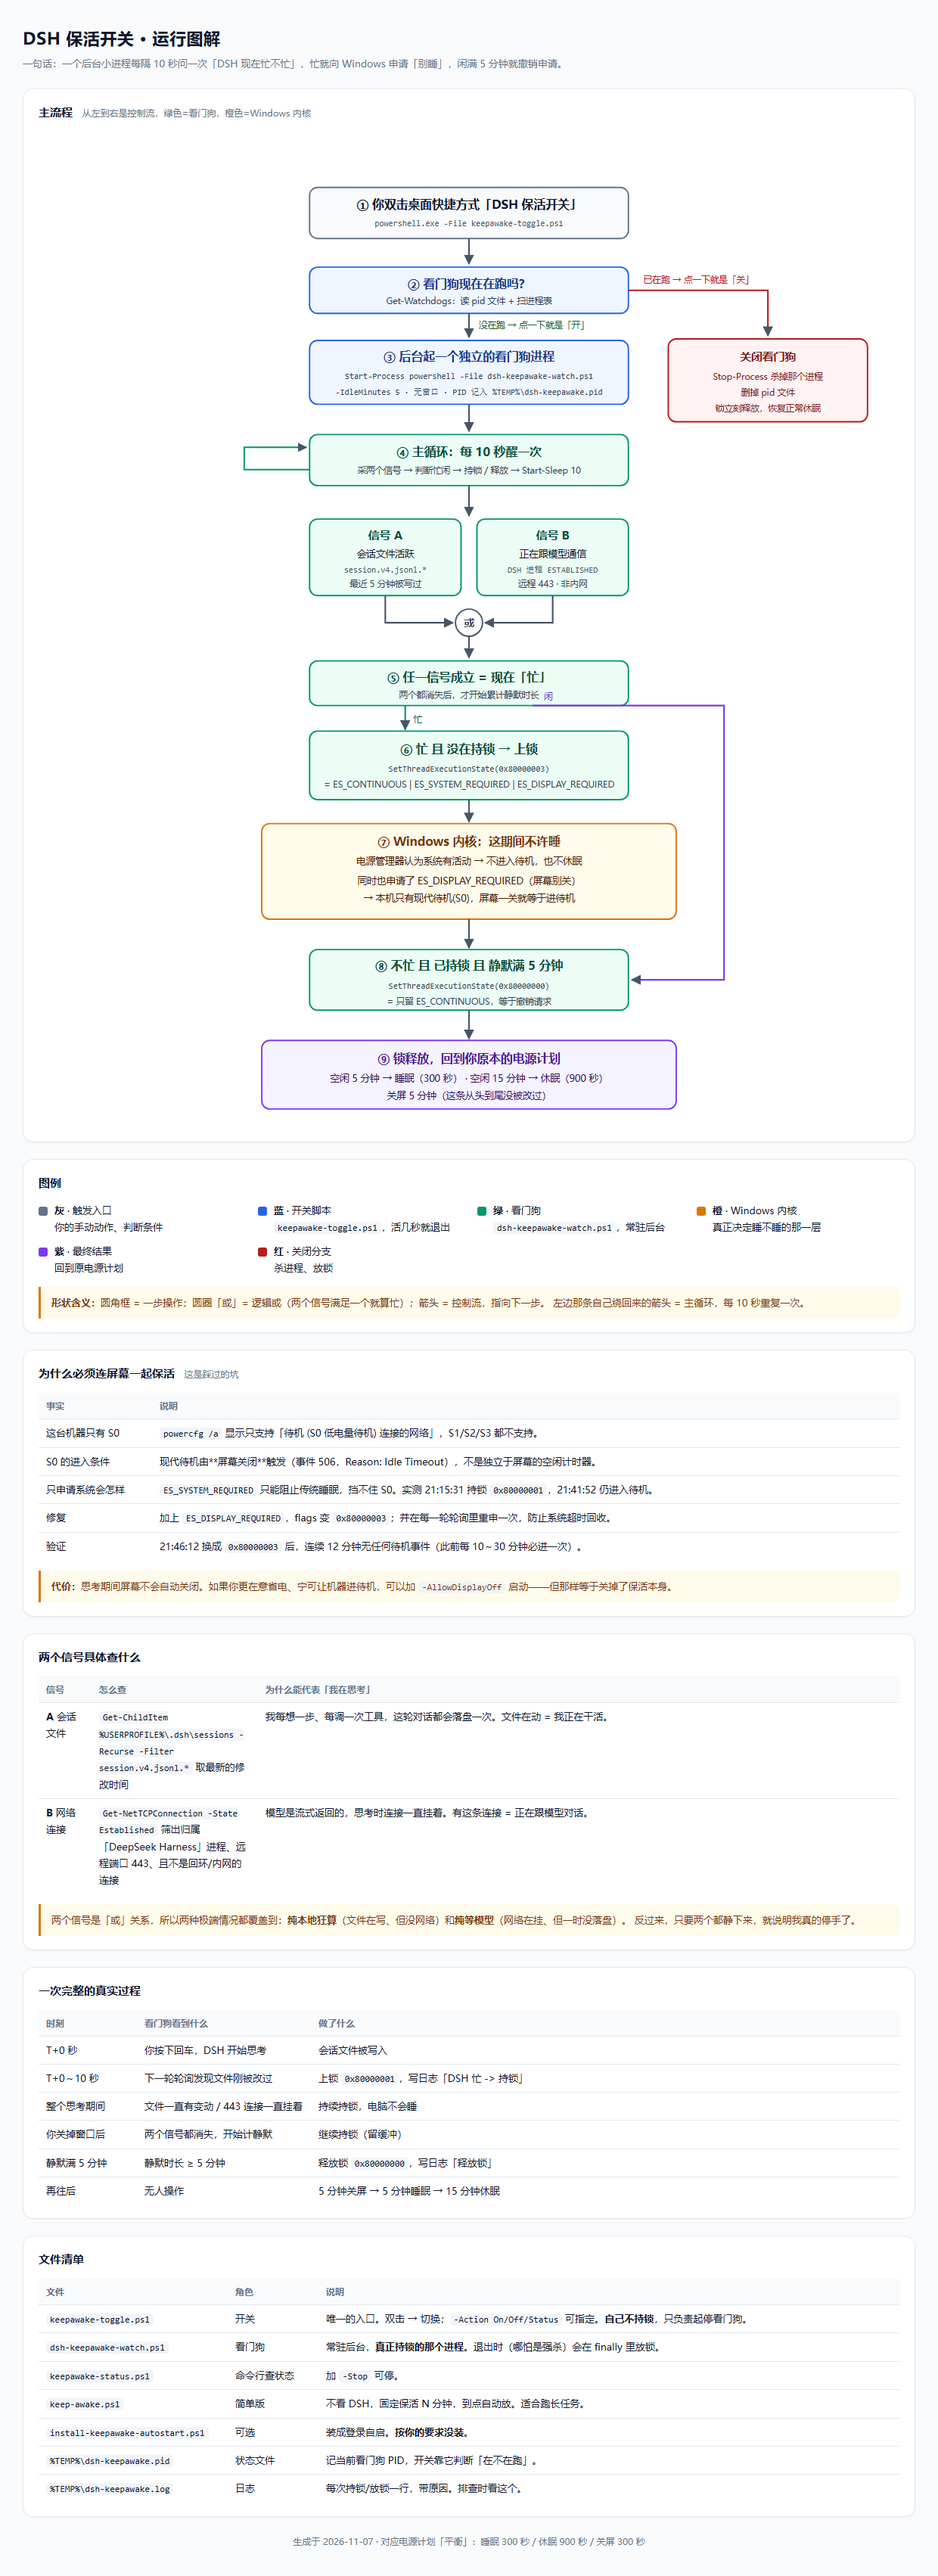
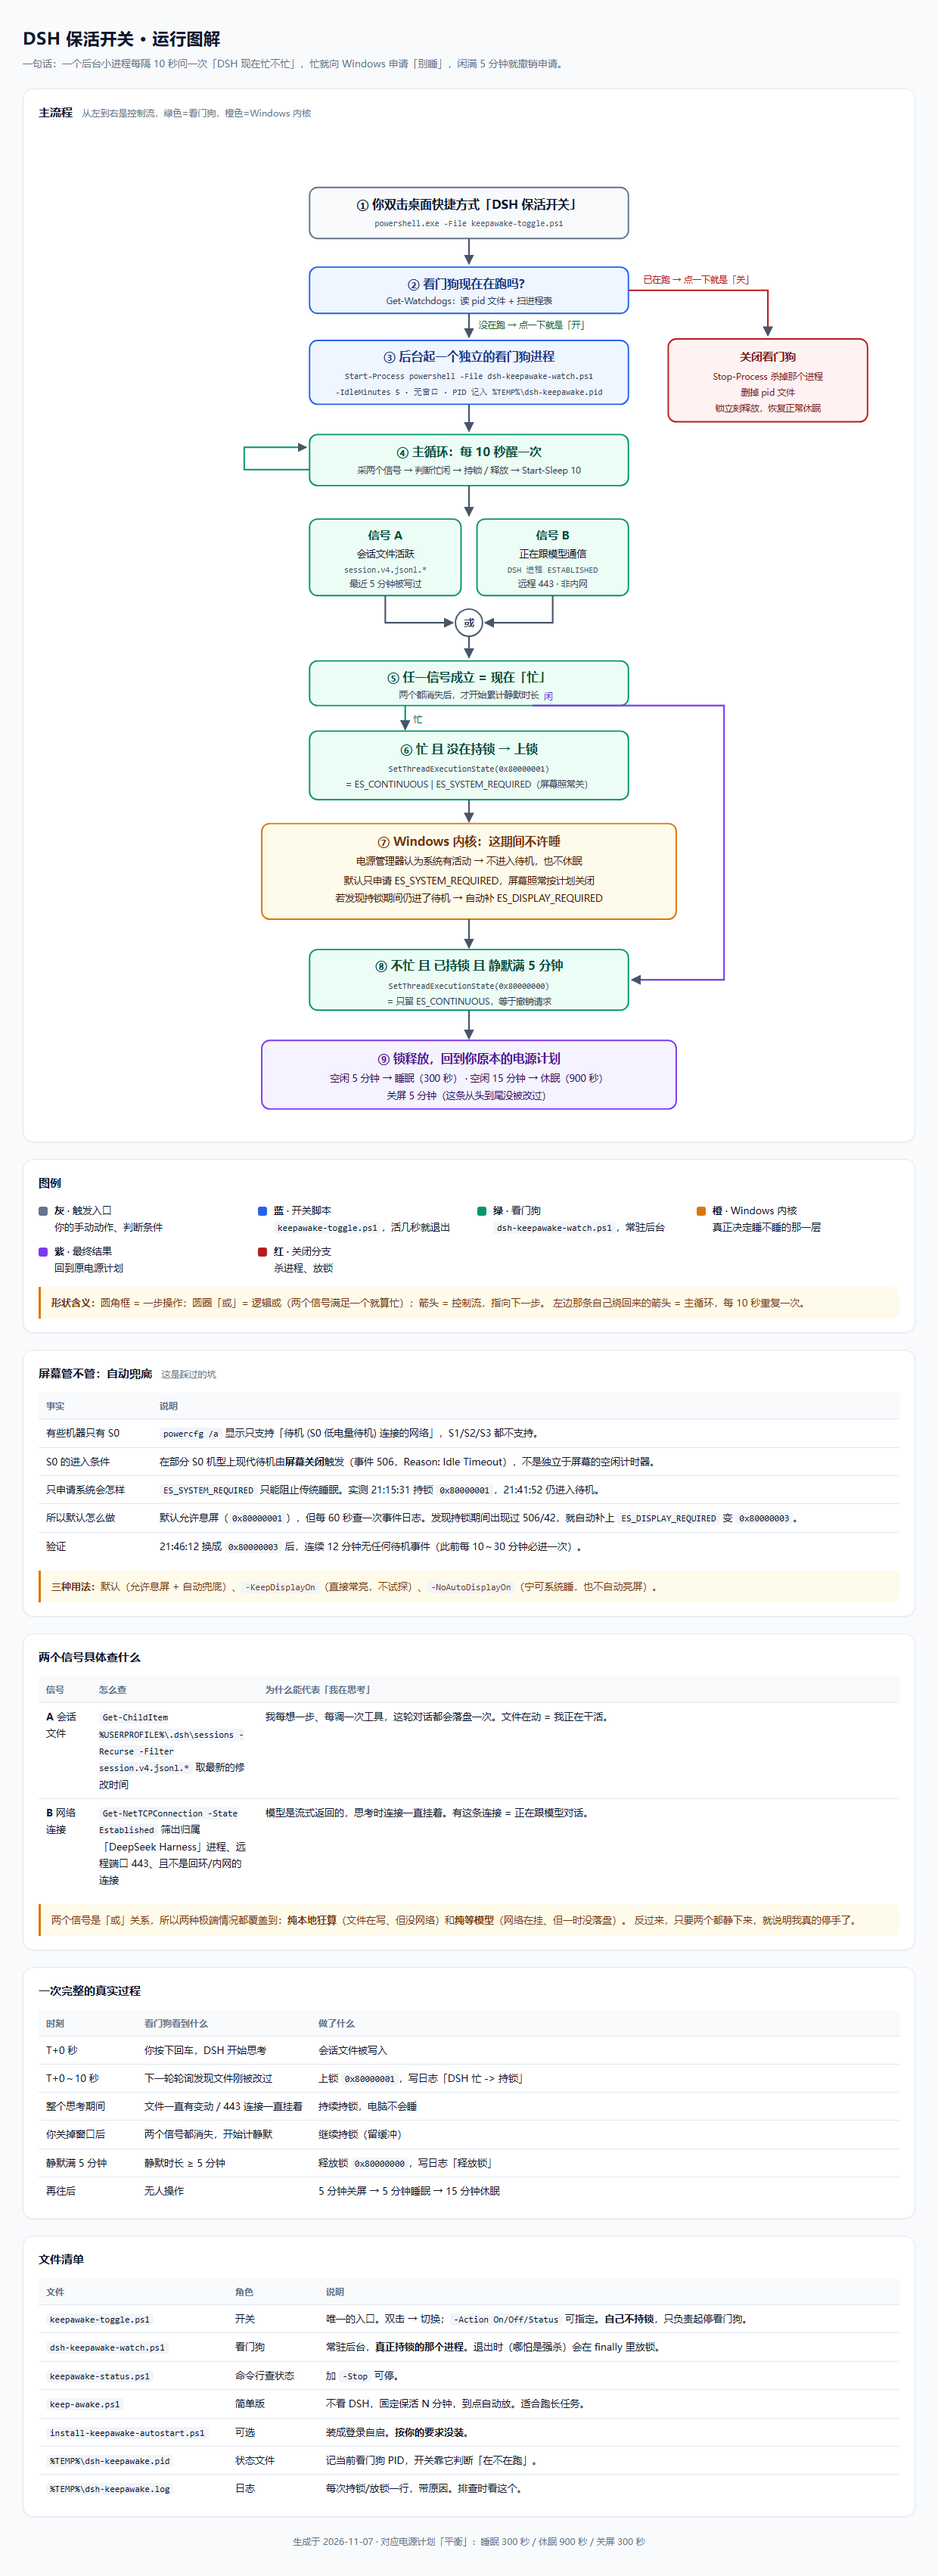
feat: 默认允许息屏，进过待机才自动升级为屏幕常亮
之前默认强制申请 ES_DISPLAY_REQUIRED（0x80000003），因为本机只有 S0
现代待机，实测持锁 0x80000001 仍会进待机。但那是个例，不该当成通用默认。

现在默认只申请 ES_SYSTEM_REQUIRED（0x80000001），屏幕照常按电源计划关闭。
持锁期间每 60 秒查一次 System 事件日志，若发现这段持锁时间里出现过
Kernel-Power 506（进入 S0）或 42（进入睡眠），说明这台机器关屏即待机，
此时自动补上 ES_DISPLAY_REQUIRED 变 0x80000003，并写日志说明原因。

新增两个开关：
- -KeepDisplayOn    直接屏幕常亮，跳过试探
- -NoAutoDisplayOn  关掉自动升级，宁可系统睡也不亮屏

改动：
- scripts/dsh-keepawake-watch.ps1  新增 Test-WentToSleep，自动升级逻辑
- scripts/keepawake-toggle.ps1     参数同步，文案分三种情况
- client.js                        右侧栏提示改为「屏幕照常按你的计划关闭」
- README.md                        重写 S0 一节，三种用法对照表
- docs/keepawake-diagram.html      图解同步，卡片改为「屏幕管不管：自动兜底」
- docs/keepawake-diagram.png       重新渲染

diff --git a/docs/keepawake-diagram.html b/docs/keepawake-diagram.html
@@ -120,16 +120,16 @@
   <!-- ⑥ -->
   <rect x="340" y="752" width="400" height="86" rx="10" fill="#ecfdf5" stroke="#059669" stroke-width="1.8"/>
   <text x="540" y="780" text-anchor="middle" font-size="15" font-weight="700" fill="#064e3b">⑥ 忙 且 没在持锁 → 上锁</text>
-  <text x="540" y="803" text-anchor="middle" font-size="10.5" fill="#334155" font-family="Consolas,monospace">SetThreadExecutionState(0x80000003)</text>
-  <text x="540" y="823" text-anchor="middle" font-size="11" fill="#334155">= ES_CONTINUOUS | ES_SYSTEM_REQUIRED | ES_DISPLAY_REQUIRED</text>
+  <text x="540" y="803" text-anchor="middle" font-size="10.5" fill="#334155" font-family="Consolas,monospace">SetThreadExecutionState(0x80000001)</text>
+  <text x="540" y="823" text-anchor="middle" font-size="11" fill="#334155">= ES_CONTINUOUS | ES_SYSTEM_REQUIRED（屏幕照常关）</text>
   <line x1="540" y1="838" x2="540" y2="866" stroke="#475569" stroke-width="2" marker-end="url(#ar)"/>
 
   <!-- ⑦ 内核 -->
   <rect x="280" y="868" width="520" height="120" rx="10" fill="#fffbeb" stroke="#d97706" stroke-width="1.8"/>
   <text x="540" y="896" text-anchor="middle" font-size="15" font-weight="700" fill="#78350f">⑦ Windows 内核：这期间不许睡</text>
   <text x="540" y="920" text-anchor="middle" font-size="12" fill="#451a03">电源管理器认为系统有活动 → 不进入待机，也不休眠</text>
-  <text x="540" y="944" text-anchor="middle" font-size="12" fill="#451a03">同时也申请了 ES_DISPLAY_REQUIRED（屏幕别关）</text>
-  <text x="540" y="966" text-anchor="middle" font-size="12" fill="#451a03">→ 本机只有现代待机(S0)，屏幕一关就等于进待机</text>
+  <text x="540" y="944" text-anchor="middle" font-size="12" fill="#451a03">默认只申请 ES_SYSTEM_REQUIRED，屏幕照常按计划关闭</text>
+  <text x="540" y="966" text-anchor="middle" font-size="12" fill="#451a03">若发现持锁期间仍进了待机 → 自动补 ES_DISPLAY_REQUIRED</text>
   <line x1="540" y1="988" x2="540" y2="1024" stroke="#475569" stroke-width="2" marker-end="url(#ar)"/>
 
   <!-- ⑧ -->
@@ -164,17 +164,17 @@
   </div>
 
   <div class="card">
-    <h2>为什么必须连屏幕一起保活 <span>这是踩过的坑</span></h2>
+    <h2>屏幕管不管：自动兜底 <span>这是踩过的坑</span></h2>
     <table>
       <tr><th style="width:150px">事实</th><th>说明</th></tr>
-      <tr><td>这台机器只有 S0</td><td><code>powercfg /a</code> 显示只支持「待机 (S0 低电量待机) 连接的网络」，S1/S2/S3 都不支持。</td></tr>
-      <tr><td>S0 的进入条件</td><td>现代待机由**屏幕关闭**触发（事件 506，Reason: Idle Timeout），不是独立于屏幕的空闲计时器。</td></tr>
-      <tr><td>只申请系统会怎样</td><td><code>ES_SYSTEM_REQUIRED</code> 只能阻止传统睡眠，挡不住 S0。实测 21:15:31 持锁 <code>0x80000001</code>，21:41:52 仍进入待机。</td></tr>
-      <tr><td>修复</td><td>加上 <code>ES_DISPLAY_REQUIRED</code>，flags 变 <code>0x80000003</code>；并在每一轮轮询里重申一次，防止系统超时回收。</td></tr>
+      <tr><td>有些机器只有 S0</td><td><code>powercfg /a</code> 显示只支持「待机 (S0 低电量待机) 连接的网络」，S1/S2/S3 都不支持。</td></tr>
+      <tr><td>S0 的进入条件</td><td>在部分 S0 机型上现代待机由<b>屏幕关闭</b>触发（事件 506，Reason: Idle Timeout），不是独立于屏幕的空闲计时器。</td></tr>
+      <tr><td>只申请系统会怎样</td><td><code>ES_SYSTEM_REQUIRED</code> 只能阻止传统睡眠。实测 21:15:31 持锁 <code>0x80000001</code>，21:41:52 仍进入待机。</td></tr>
+      <tr><td>所以默认怎么做</td><td>默认允许息屏（<code>0x80000001</code>），但每 60 秒查一次事件日志。发现持锁期间出现过 506/42，就自动补上 <code>ES_DISPLAY_REQUIRED</code> 变 <code>0x80000003</code>。</td></tr>
       <tr><td>验证</td><td>21:46:12 换成 <code>0x80000003</code> 后，连续 12 分钟无任何待机事件（此前每 10～30 分钟必进一次）。</td></tr>
     </table>
     <div class="note">
-      <b>代价：</b>思考期间屏幕不会自动关闭。如果你更在意省电、宁可让机器进待机，可以加 <code>-AllowDisplayOff</code> 启动——但那样等于关掉了保活本身。
+      <b>三种用法：</b>默认（允许息屏 + 自动兜底）、<code>-KeepDisplayOn</code>（直接常亮，不试探）、<code>-NoAutoDisplayOn</code>（宁可系统睡，也不自动亮屏）。
     </div>
   </div>
 

diff --git a/client.js b/client.js
@@ -23,7 +23,7 @@ window.__ModuleLoader__.load({
       'panel.on': '已开启',
       'panel.off': '已关闭',
       'panel.unknown': '读取中…',
-      'panel.onHint': '我思考、调工具、跟模型对话的期间，电脑不会自动睡眠或休眠。',
+      'panel.onHint': '我思考、调工具、跟模型对话的期间，电脑不会自动睡眠或休眠。屏幕照常按你的计划关闭。',
       'panel.offHint': '电脑按原来的计划睡眠 / 休眠。',
       'panel.turnOn': '开启保活',
       'panel.turnOff': '关闭保活',
@@ -49,7 +49,7 @@ window.__ModuleLoader__.load({
       'panel.off': 'Off',
       'panel.unknown': 'Reading…',
       'panel.onHint':
-        'While I think, call tools and talk to the model, the PC will not sleep or hibernate.',
+        'While I think, call tools and talk to the model, the PC will not sleep or hibernate. The display still follows your power plan.',
       'panel.offHint': 'The PC follows its usual sleep / hibernate plan.',
       'panel.turnOn': 'Turn on',
       'panel.turnOff': 'Turn off',
